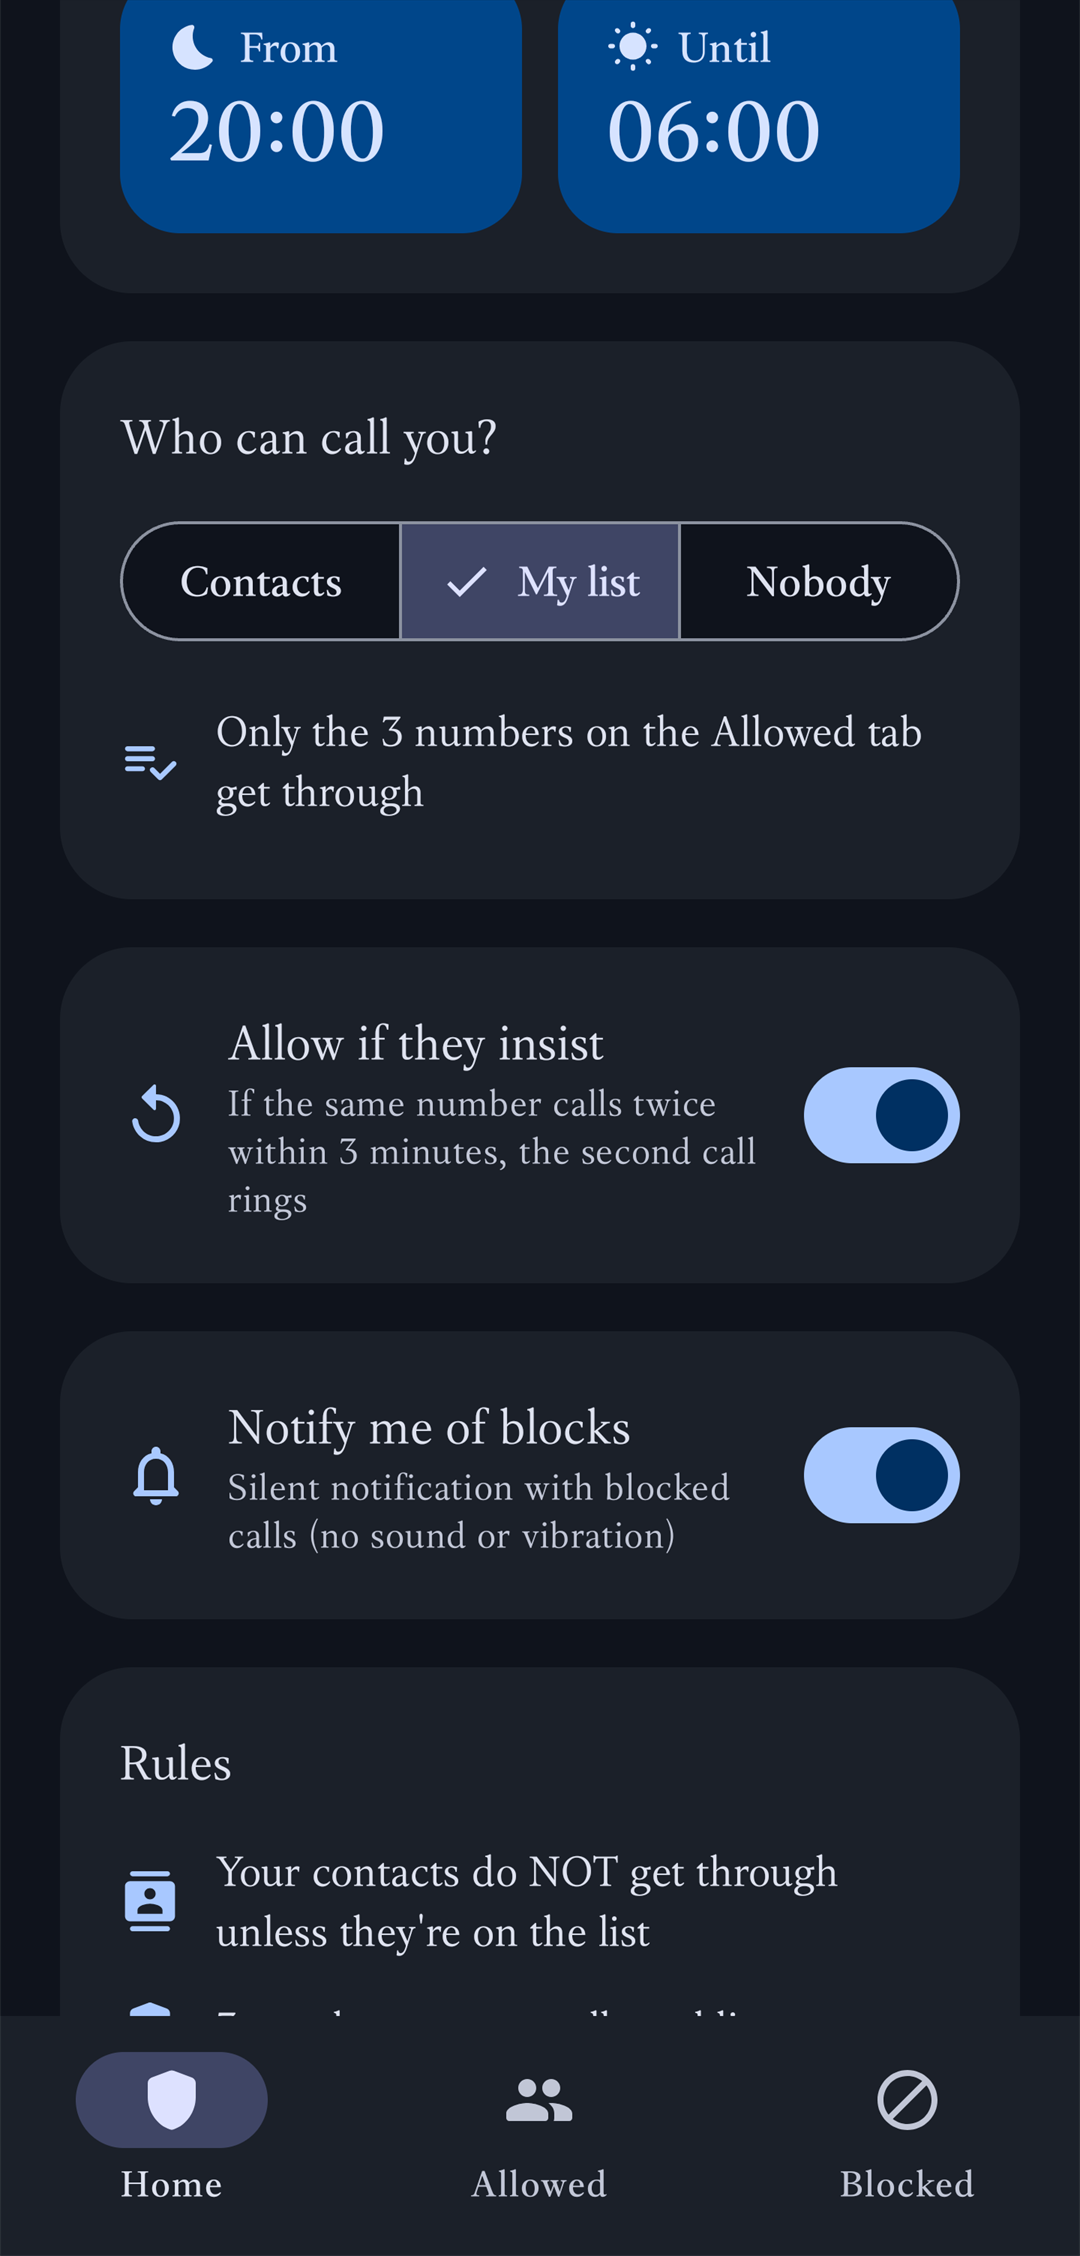
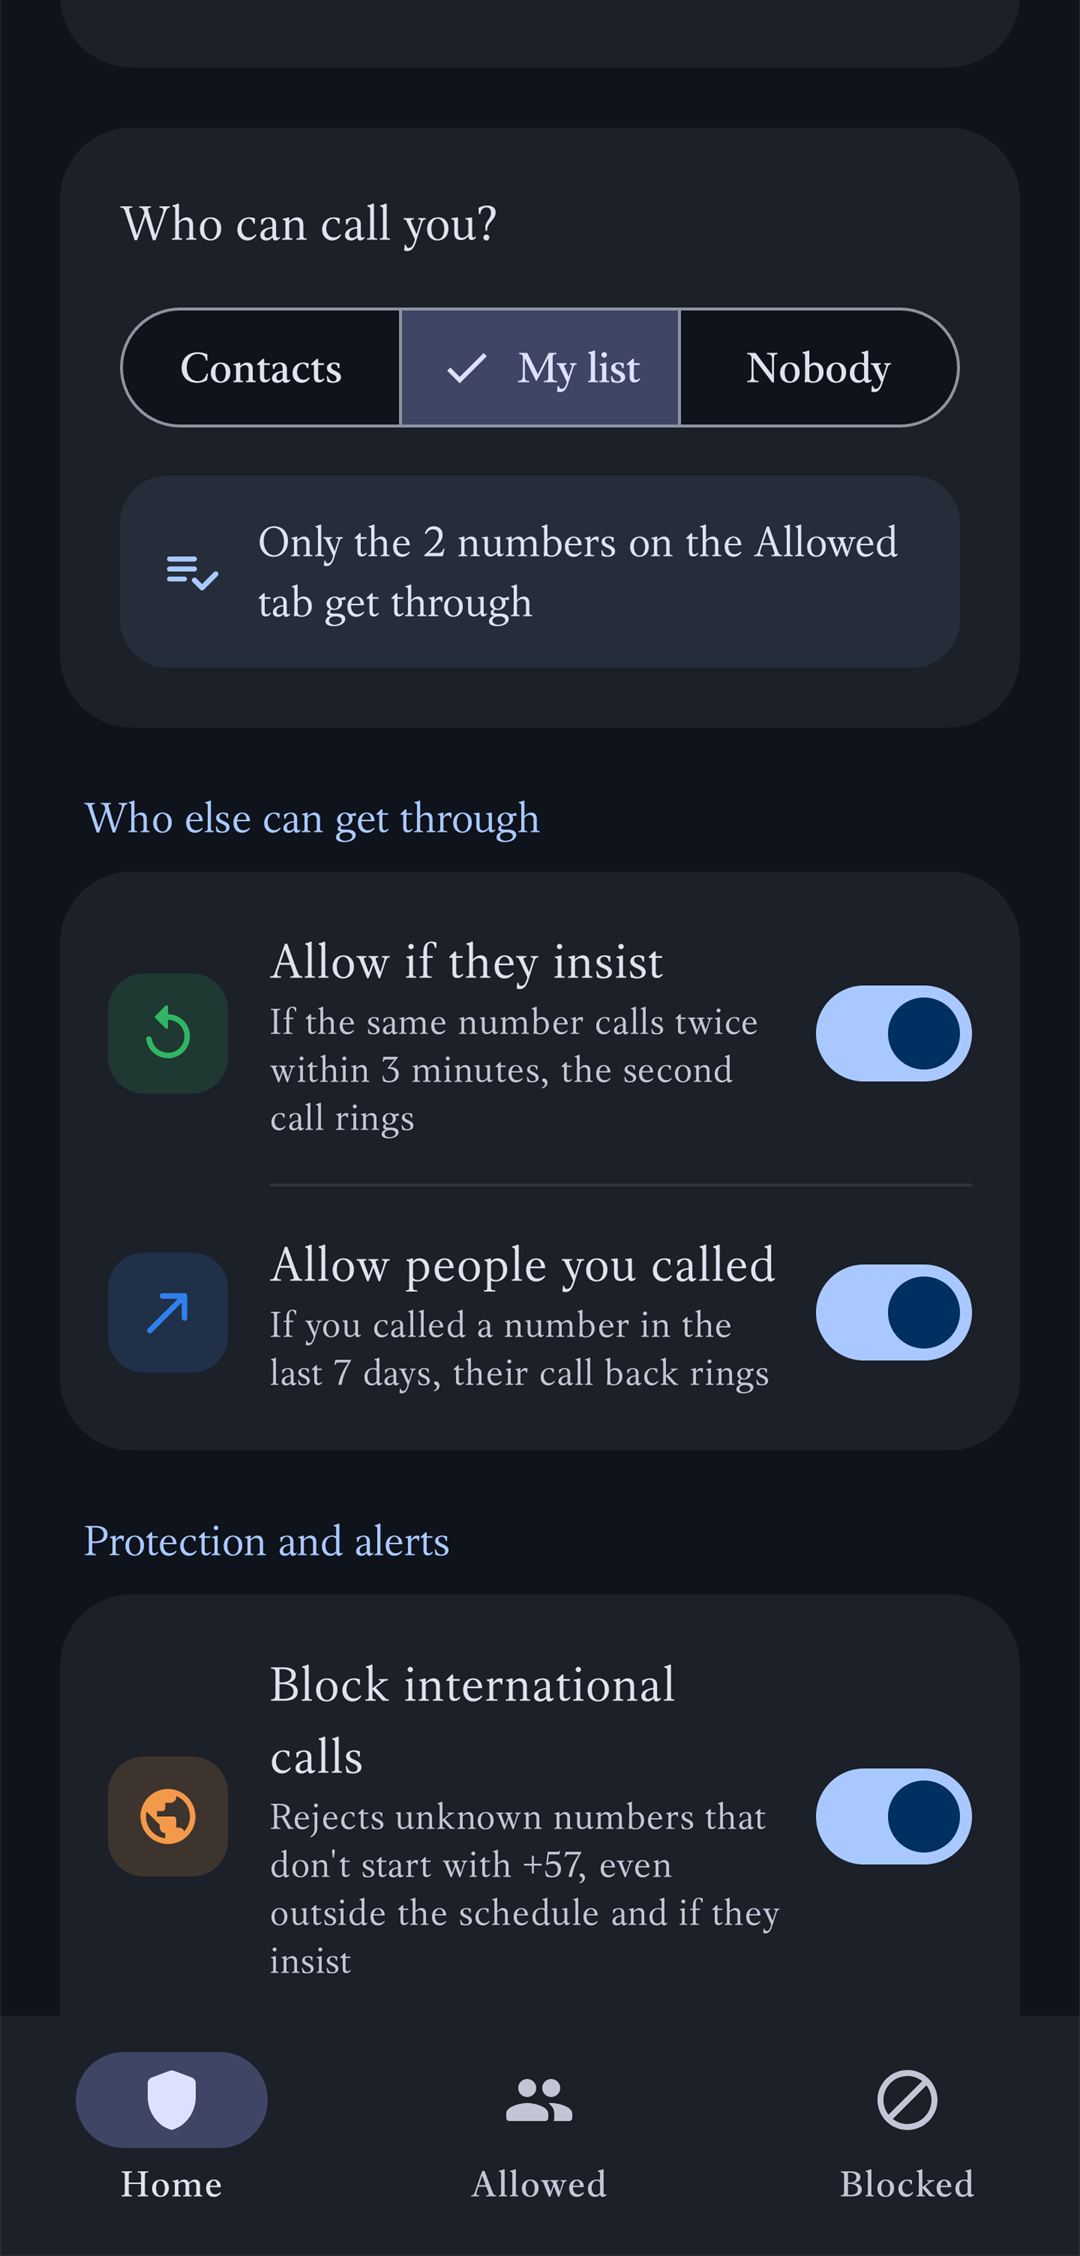
BlockCall 1.4: sección Nuevo, capturas del diseño renovado, nuevo ícono y descarga 1.4

diff --git a/index.html b/index.html
@@ -332,17 +332,45 @@
     </div>
   </section>
 
-  <!-- 05 · Apariencia -->
-  <section class="chapter" id="tema">
+  <!-- 05 · Nuevo en 1.4 -->
+  <section class="chapter" id="nuevo">
     <div class="copy reveal">
-      <p class="eyebrow"><span>05</span> · <span lang="es">Apariencia</span><span lang="en">Appearance</span></p>
+      <p class="eyebrow"><span>05</span> · <span lang="es">Nuevo en 1.4</span><span lang="en">New in 1.4</span></p>
+      <h2><span lang="es">Más lista,<br><em>igual de callada</em>.</span><span lang="en">Smarter,<br><em>just as quiet</em>.</span></h2>
+      <p class="body"><span lang="es"><b>Permitir a quien llamaste:</b> si tú llamaste a un número en los últimos 7 días, su llamada de vuelta entra. El taller, la clínica o el domicilio te encuentran aunque no estén en tu agenda.</span><span lang="en"><b>Allow people you called:</b> if you called a number in the last 7 days, their call back gets through. The garage, the clinic or the delivery can reach you even if they're not in your contacts.</span></p>
+      <p class="body"><span lang="es"><b>Bloquear internacionales:</b> rechaza a los desconocidos que no empiecen por el indicativo de tu país, también fuera del horario y aunque insistan. BlockCall lo detecta solo de la SIM (en Colombia, +57).</span><span lang="en"><b>Block international calls:</b> rejects unknown callers that don't start with your country code, even outside the schedule and if they insist. BlockCall detects it from your SIM (+1 in the US, +44 in the UK).</span></p>
+      <p class="body"><span lang="es"><b>Silenciar en vez de rechazar:</b> la llamada entra sin sonar ni vibrar. Si estás mirando el teléfono, contestas; si no, queda como perdida.</span><span lang="en"><b>Silence instead of reject:</b> the call comes in without ringing or vibrating. If you're looking at your phone, you answer; if not, it's a missed call.</span></p>
+      <ul class="chips">
+        <li><span lang="es">Indicativo detectado solo</span><span lang="en">Country code detected automatically</span></li>
+        <li><span lang="es">Tus contactos del exterior sí entran</span><span lang="en">Contacts abroad still get through</span></li>
+        <li><span lang="es">Sin permisos nuevos</span><span lang="en">No new permissions</span></li>
+      </ul>
+    </div>
+    <div class="art reveal">
+      <div class="shots two">
+        <figure class="shot">
+          <div class="phone"><img lang="es" src="img/es-features.png" alt="Permitir si insiste y Permitir a quien llamaste" loading="lazy" width="1080" height="2256"><img lang="en" src="img/en-features.png" alt="Allow if they insist and Allow people you called" loading="lazy" width="1080" height="2256"></div>
+          <figcaption><b><span lang="es">Quién más entra</span><span lang="en">Who else gets through</span></b><span lang="es">Insistentes y a quien llamaste</span><span lang="en">Repeat callers and people you called</span></figcaption>
+        </figure>
+        <figure class="shot lift">
+          <div class="phone"><img lang="es" src="img/es-protection.png" alt="Bloquear internacionales y Silenciar en vez de rechazar" loading="lazy" width="1080" height="2256"><img lang="en" src="img/en-protection.png" alt="Block international calls and Silence instead of reject" loading="lazy" width="1080" height="2256"></div>
+          <figcaption><b><span lang="es">Protección</span><span lang="en">Protection</span></b><span lang="es">Internacionales y silenciar</span><span lang="en">International and silence</span></figcaption>
+        </figure>
+      </div>
+    </div>
+  </section>
+
+  <!-- 06 · Apariencia -->
+  <section class="chapter flip" id="tema">
+    <div class="copy reveal">
+      <p class="eyebrow"><span>06</span> · <span lang="es">Apariencia</span><span lang="en">Appearance</span></p>
       <h2><span lang="es">Claro u oscuro,<br><em>como tu Android</em>.</span><span lang="en">Light or dark,<br><em>like your Android</em>.</span></h2>
       <p class="body"><span lang="es">Sigue el tema del sistema y los colores de tu fondo de pantalla (Material You). Si prefieres uno fijo, elígelo en Apariencia. En español o en inglés, según tu teléfono.</span><span lang="en">It follows your system theme and wallpaper colors (Material You). If you prefer a fixed one, pick it under Appearance. In English or Spanish, following your phone.</span></p>
     </div>
     <div class="art reveal">
       <div class="shots two">
         <figure class="shot">
-          <div class="phone"><img lang="es" src="img/es-schedule.png" alt="Tema oscuro" loading="lazy" width="1080" height="2256"><img lang="en" src="img/en-schedule.png" alt="Dark theme" loading="lazy" width="1080" height="2256"></div>
+          <div class="phone"><img lang="es" src="img/es-home.png" alt="Tema oscuro" loading="lazy" width="1080" height="2256"><img lang="en" src="img/en-home.png" alt="Dark theme" loading="lazy" width="1080" height="2256"></div>
           <figcaption><b><span lang="es">Oscuro</span><span lang="en">Dark</span></b></figcaption>
         </figure>
         <figure class="shot lift">
@@ -353,10 +381,10 @@
     </div>
   </section>
 
-  <!-- 06 · Ligero -->
-  <section class="chapter flip" id="ligero">
+  <!-- 07 · Ligero -->
+  <section class="chapter" id="ligero">
     <div class="copy reveal">
-      <p class="eyebrow"><span>06</span> · <span lang="es">Ligero</span><span lang="en">Light</span></p>
+      <p class="eyebrow"><span>07</span> · <span lang="es">Ligero</span><span lang="en">Light</span></p>
       <h2><span lang="es">Hecha para<br><em>no notarse</em>.</span><span lang="en">Built to<br><em>go unnoticed</em>.</span></h2>
       <p class="body"><span lang="es">Usa la API oficial de Android para filtrar llamadas: el sistema la despierta solo cuando entra una llamada, decide en milisegundos y la vuelve a dormir. Ningún limpiador de tareas puede detenerla, y si algo fallara, la llamada entra: nunca pierdes a un contacto.</span><span lang="en">It uses Android's official call screening API: the system wakes it only when a call arrives, it decides in milliseconds and goes back to sleep. Task killers can't stop it, and if anything failed the call would ring: you never miss a contact.</span></p>
       <p class="body"><span lang="es">Sin permiso de internet, sin anuncios, sin rastreadores. Tus contactos y tu historial nunca salen del teléfono.</span><span lang="en">No internet permission, no ads, no trackers. Your contacts and history never leave your phone.</span></p>
@@ -371,10 +399,10 @@
     </div>
   </section>
 
-  <!-- 07 · Instalar -->
+  <!-- 08 · Instalar -->
   <section class="chapter wide" id="instalar">
     <div class="copy reveal">
-      <p class="eyebrow"><span>07</span> · <span lang="es">Instalar</span><span lang="en">Install</span></p>
+      <p class="eyebrow"><span>08</span> · <span lang="es">Instalar</span><span lang="en">Install</span></p>
       <h2><span lang="es">Lista en<br><em>un minuto</em>.</span><span lang="en">Ready in<br><em>a minute</em>.</span></h2>
       <p class="body"><span lang="es">Un asistente te explica cada aviso de Android antes de que aparezca.</span><span lang="en">An assistant explains each Android prompt before it appears.</span></p>
       <ol class="steps">
@@ -395,16 +423,16 @@
     </div>
   </section>
 
-  <!-- 08 · Descargar -->
+  <!-- 09 · Descargar -->
   <section class="download" id="descargar">
     <div class="glow glow-c"></div>
-    <p class="eyebrow"><span>08</span> · <span lang="es">Descargar</span><span lang="en">Download</span></p>
+    <p class="eyebrow"><span>09</span> · <span lang="es">Descargar</span><span lang="en">Download</span></p>
     <h2><span lang="es">Tu teléfono,<br><em>en silencio</em>.</span><span lang="en">Your phone,<br><em>at peace</em>.</span></h2>
     <a class="btn btn-primary btn-xl" href="https://github.com/blockcallcm/BlockCall/releases/latest/download/BlockCall.apk">
       <svg viewBox="0 0 24 24" aria-hidden="true"><path fill="currentColor" d="M17.6 9.48l1.84-3.18a.38.38 0 0 0-.66-.38l-1.86 3.22a11.5 11.5 0 0 0-9.84 0L5.22 5.92a.38.38 0 0 0-.66.38L6.4 9.48A10.8 10.8 0 0 0 1 18h22a10.8 10.8 0 0 0-5.4-8.52zM7 15.25a1.25 1.25 0 1 1 0-2.5 1.25 1.25 0 0 1 0 2.5zm10 0a1.25 1.25 0 1 1 0-2.5 1.25 1.25 0 0 1 0 2.5z"/></svg>
       <span lang="es">Descargar APK</span><span lang="en">Download APK</span>
     </a>
-    <p class="dl-meta"><span lang="es">APK · 2 MB · versión</span><span lang="en">APK · 2 MB · version</span> 1.3.1</p>
+    <p class="dl-meta"><span lang="es">APK · 2 MB · versión</span><span lang="en">APK · 2 MB · version</span> 1.4</p>
     <p class="dl-note"><span lang="es">¿Quieres actualizaciones automáticas? Agrega <b>github.com/blockcallcm/BlockCall</b> en <a href="https://github.com/ImranR98/Obtainium">Obtainium</a>.</span><span lang="en">Want automatic updates? Add <b>github.com/blockcallcm/BlockCall</b> to <a href="https://github.com/ImranR98/Obtainium">Obtainium</a>.</span></p>
     <ul class="dl-facts">
       <li>Android 10+</li>
@@ -413,7 +441,7 @@
       <li><span lang="es">Gratis, sin cuenta y sin publicidad</span><span lang="en">Free, no account, no ads</span></li>
       <li><span lang="es">Código abierto, licencia GPL-3.0</span><span lang="en">Open source, GPL-3.0 license</span></li>
     </ul>
-    <p class="sha"><span>SHA-256</span> <code>042edb302a6378b02376953b99a94a3a1cabb8d3e7fdc3f78b85191d7cb5ce88</code></p>
+    <p class="sha"><span>SHA-256</span> <code>d7d1d6f77ed7bed823f98a3435700cccda9b012f4f849466254f44b2ed151675</code></p>
   </section>
 </main>
 
